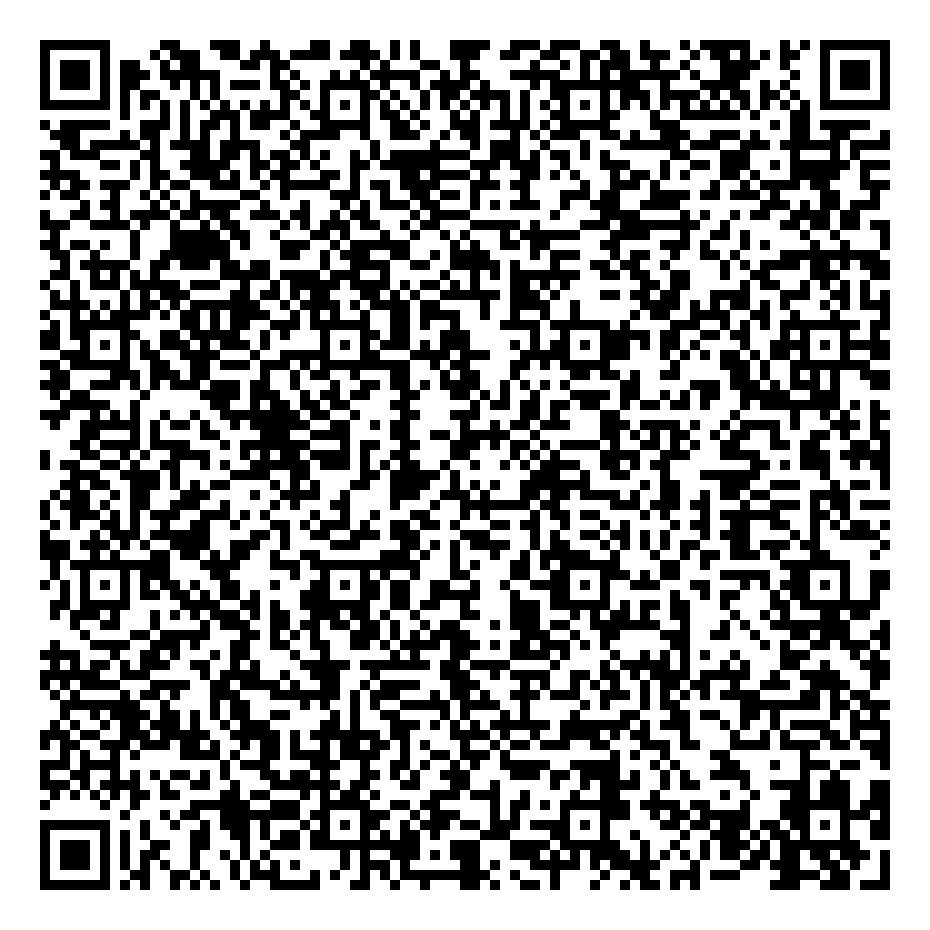
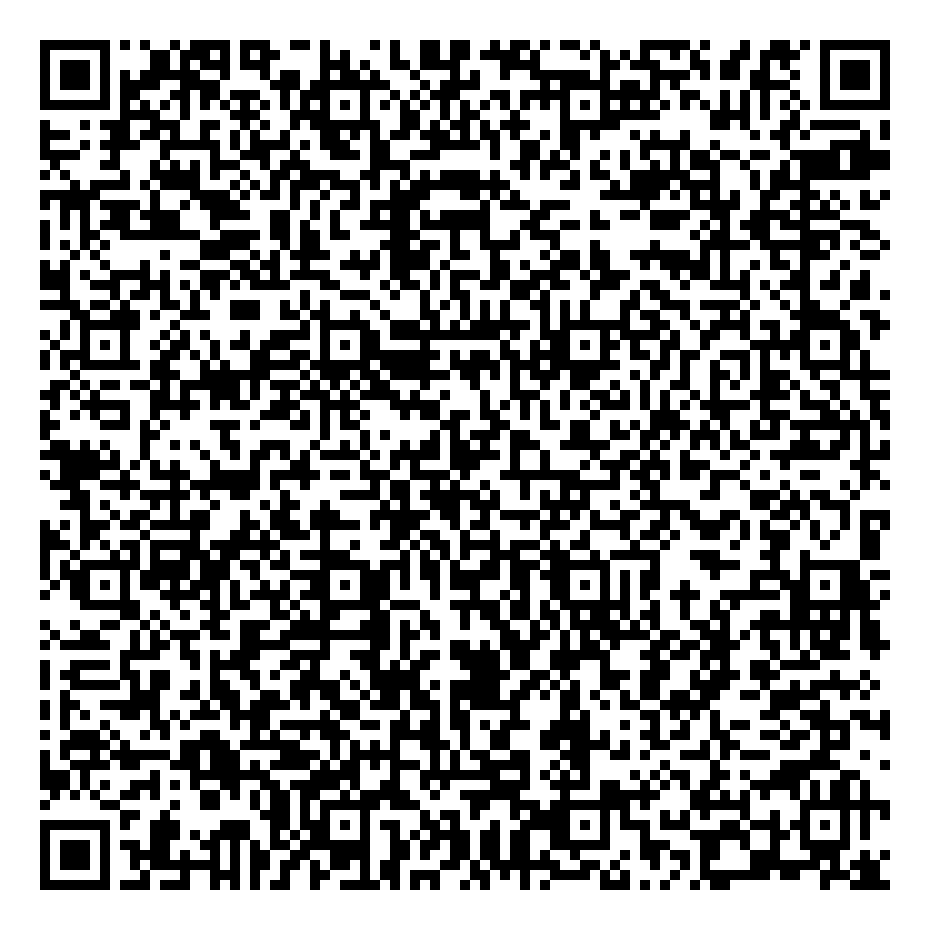
1.2 초기 설정용 QR 및 사용 안내 갱신
QR은 1.2 APK 커밋(cf783f0)에 고정된 주소를 가리킵니다.
1.1 APK는 최신 파일 목록에서 제거했습니다(이전 커밋에는 남아 있음).

diff --git a/README.md b/README.md
@@ -1,14 +1,16 @@
-# 공신폰 설정 1.1
+# 공신폰 설정 1.2
 
 Galaxy A18 실기기 검증 전 테스트 APK입니다.
 
-[APK 직접 다운로드](https://raw.githubusercontent.com/careconnect-team/gongsin-phone/98551a2e6bd8e22b0a90e486a3efd56d534172e1/gongsin-setup-1.1.apk)
+[APK 직접 다운로드](https://raw.githubusercontent.com/careconnect-team/gongsin-phone/cf783f0c7b4e4e9f8c2cb4f2a3e4b66e1de609dd/gongsin-setup-1.2.apk)
 
 ## 초기 설정용 QR
 
 ![공신폰 등록 QR](gongsin-enrollment.png)
 
 새 기기 또는 백업 후 초기화한 테스트 기기의 초기 설정에서 QR 등록을 진행하세요. APK를 일반 설치하는 것만으로 기기 소유자 관리 기능이 활성화되지는 않습니다.
+
+이미 1.1로 등록한 기기는 초기화하지 않고 위 링크의 APK를 설치하면 1.2로 업데이트할 수 있습니다. 학습 제한이 적용된 상태에서는 설치가 막히므로 먼저 앱에서 **모든 학습 제한 해제**를 누르세요.
 
 초기 설정 완료 후 **공신폰 설정** 앱에서 관리자 비밀번호를 만들면 **12자리 복구 코드**가 표시됩니다. 복구 코드는 종이에 적어 휴대전화 밖에 보관하세요(앱 화면은 캡처되지 않습니다). 그다음 차단할 앱을 선택하고 제한을 적용합니다. 제한을 풀 때는 관리자 비밀번호로 앱에 접속하여 해제합니다.
 
@@ -18,9 +20,11 @@ Galaxy A18 실기기 검증 전 테스트 APK입니다.
 
 구현 기능: 선택 앱 숨김, 앱 설치·삭제 제한, 설정 메뉴 초기화 제한, 관리자 비밀번호 및 제한 해제, 복구 코드로 비밀번호 재설정. 비밀번호나 복구 코드를 5번 틀리면 1분을 기다려야 하고, 이후 틀릴 때마다 대기 시간이 두 배로 늘어납니다(최대 60분). 기기 날짜·시간을 바꾸거나 재부팅해도 대기 시간은 줄지 않습니다. 네트워크·위치·메시지 수집 기능은 없습니다.
 
-1.0에서 바뀐 점: 복구 코드 추가, 잠금 강화, 앱 화면 캡처·최근 앱 미리보기 차단. 1.0 APK와 1.0용 QR은 사용하지 마세요.
+1.2에서 바뀐 점: 숨길 앱 선택 화면을 전체 화면으로 바꿨습니다. 앱 아이콘과 이름만 한 줄씩 보여 주고, 게임·동영상·SNS·웹 브라우저·앱 스토어로 보이는 앱은 ‘방해될 수 있는 앱’으로 위에 모아 한 번에 선택할 수 있습니다. 이름 검색과 하단 저장 바가 있고, 같은 앱이 두 번 나오던 문제를 고쳤습니다.
 
-검증 완료: 복구 코드·잠금 단위 테스트, APK 빌드 및 서명(1.0과 같은 서명 키), 공개 다운로드 원본 일치, QR 생성 및 재인식.
-아직 미검증: A18 실기기 QR 등록, 제한 적용 및 해제, 복구 코드로 비밀번호 재설정, 재부팅 후 동작. 판매 배포 전 실기기 검증이 필요합니다.
+1.1에서 바뀐 점: 복구 코드 추가, 잠금 강화, 앱 화면 캡처·최근 앱 미리보기 차단. 이전 버전(1.0, 1.1)의 APK와 QR은 사용하지 마세요.
 
[1 lines of base64/hex data omitted]
+검증 완료: 복구 코드·잠금 단위 테스트, APK 빌드 및 서명(이전 버전과 같은 서명 키), 공개 다운로드 원본 일치, QR 생성 및 재인식, 삼성 갤럭시 실기기(A18 아님)에서 1.1 QR 등록·앱 설치·비밀번호와 복구 코드 저장.
+아직 미검증: A18 실기기, 1.2 앱 선택 화면, 제한 적용 및 해제, 복구 코드로 비밀번호 재설정, 재부팅 후 동작. 판매 배포 전 실기기 검증이 필요합니다.
+
[1 lines of base64/hex data omitted]
